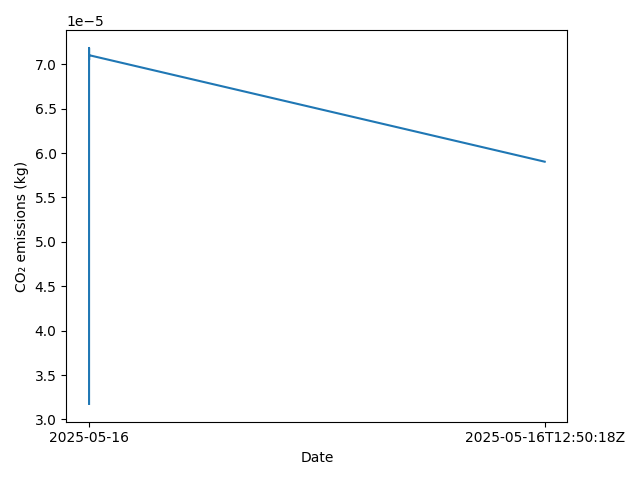
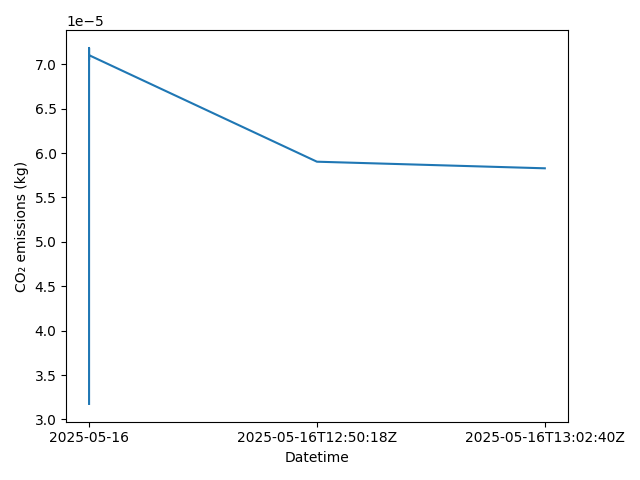
update emissions trend graph

diff --git a/README.md b/README.md
@@ -2,4 +2,5 @@
 
 <!-- EMISSIONS_GRAPH -->
 ![Emissions Over Time](emissions_trend.png)
+![Energy usage Over Time](energy_trend.png)
 <!-- END_EMISSIONS_GRAPH -->
